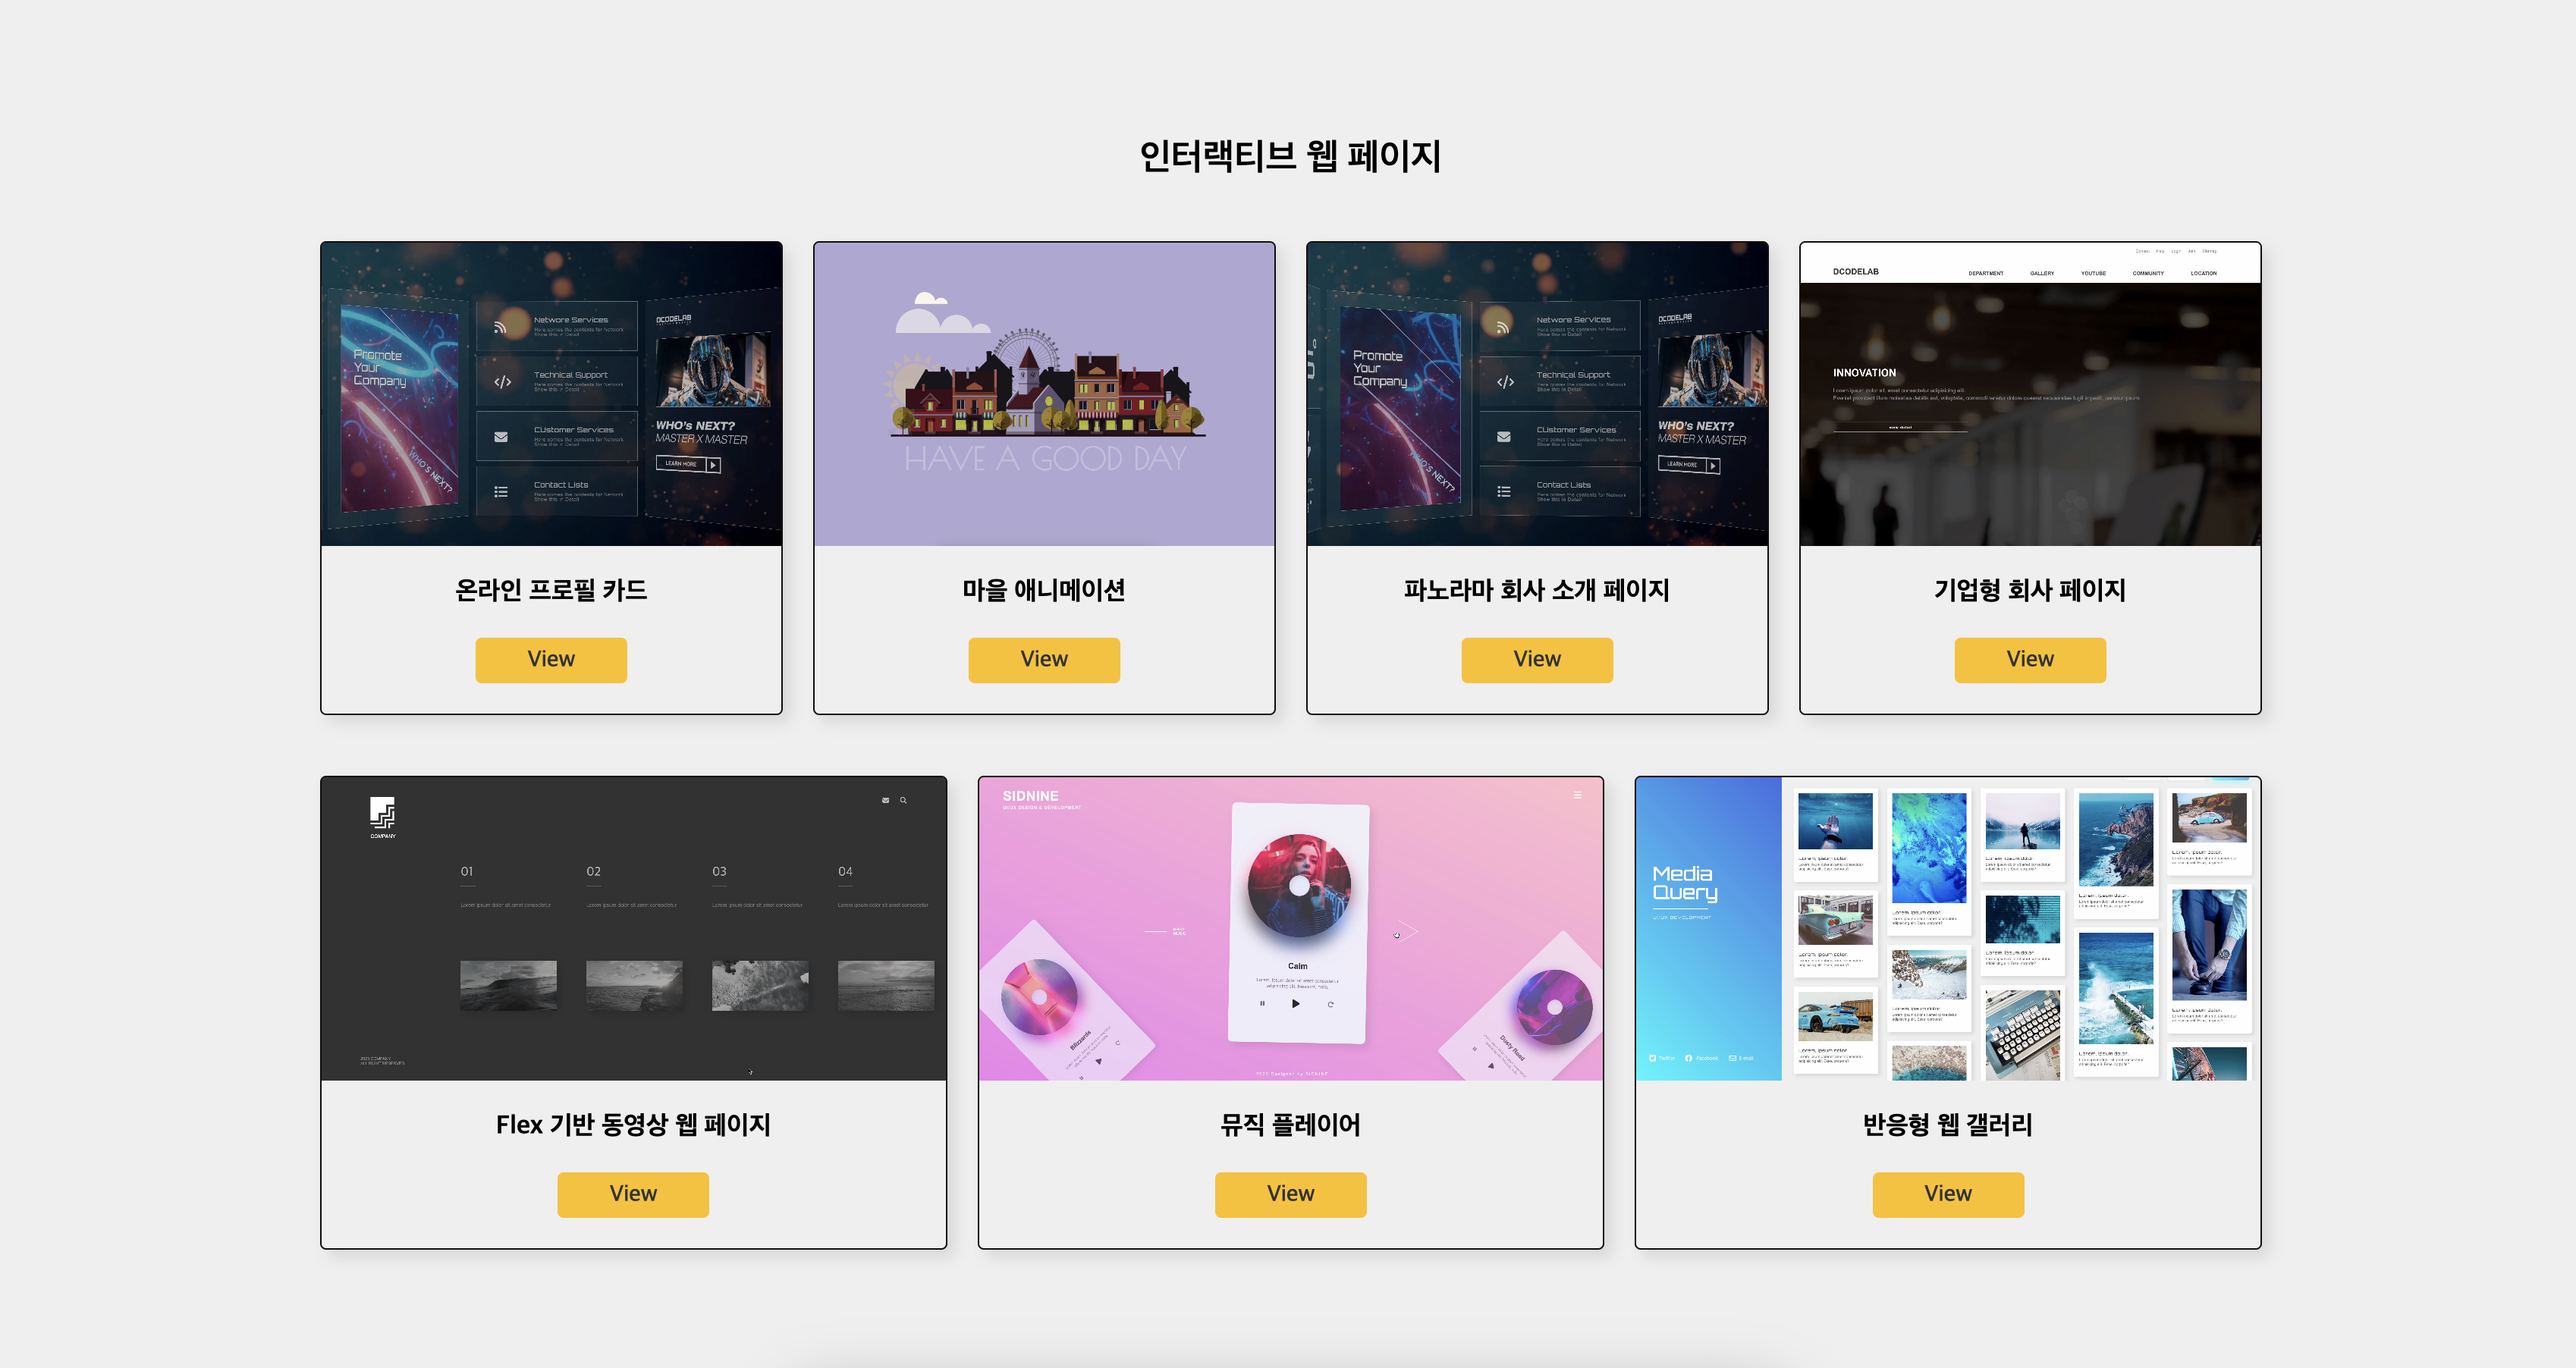
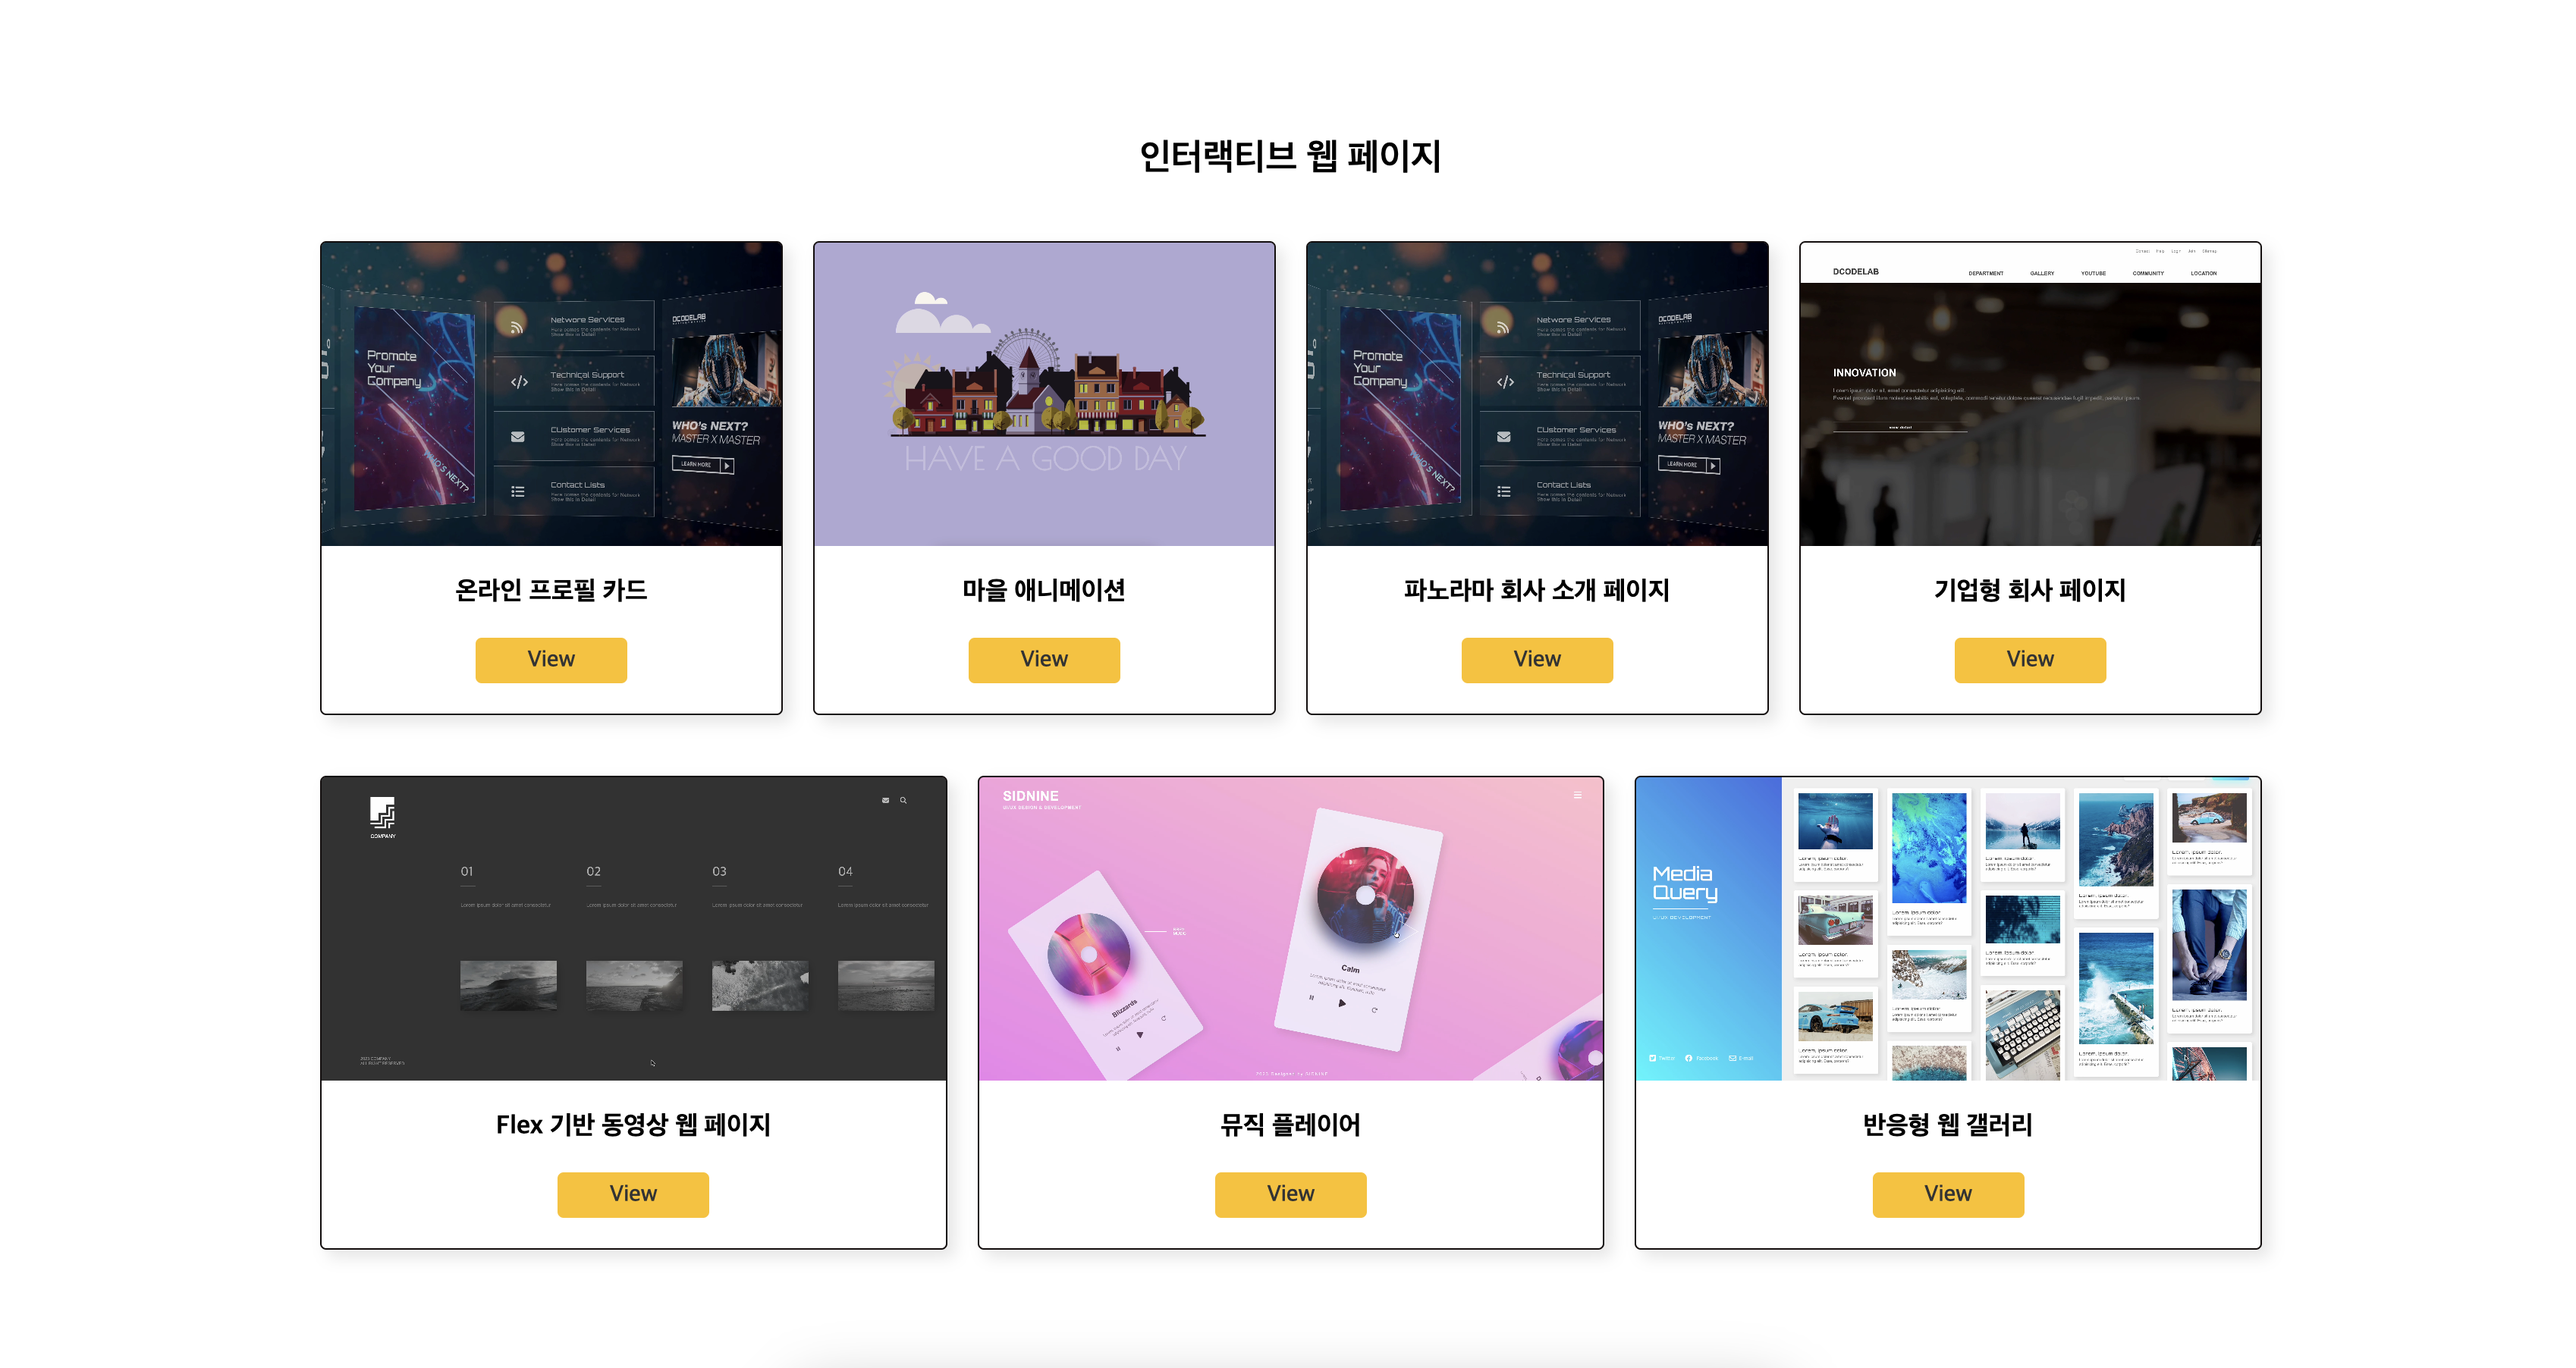
create README.md

Changed region(s): [[0.3746, 0.5898, 0.6243, 0.8071], [0.1249, 0.1552, 0.3121, 0.3725]]

diff --git a/css/style.css b/css/style.css
@@ -17,10 +17,6 @@ a {
   color: inherit;
 }
 
-body {
-  background: #efefef;
-}
-
 main {
   width: 100%;
   height: 100vh;
@@ -58,6 +54,7 @@ section article {
   margin-bottom: 40px;
   margin-right: 20px;
   border: 1px solid #130d0d;
+  background-color: #fff;
   box-shadow: 5px 5px 10px rgba(0, 0, 0, 0.1);
   border-radius: 4px;
   overflow: hidden;
